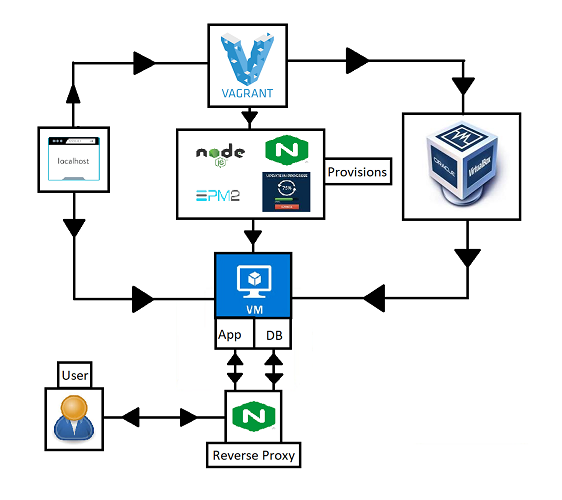
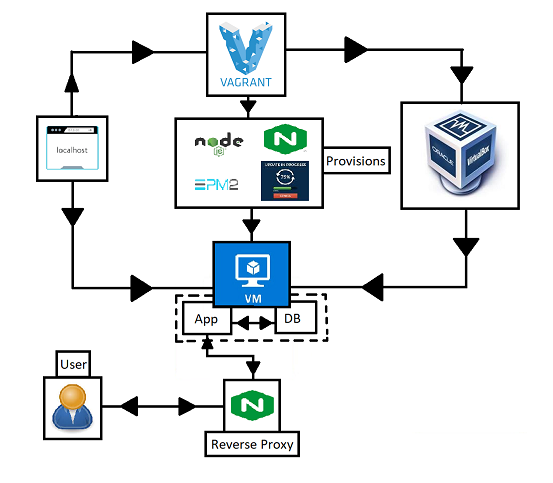
readme

Changed region(s): [[0.0615, 0.0, 0.953, 0.9627]]

diff --git a/README.md b/README.md
@@ -95,7 +95,11 @@ sudo npm install pm2
 
 ![](diagram.PNG)
 
-Configure Vagrantfile as such:
+We can see in the app.js we require a link to an external database. This is being called from the APP program so can be seen as monolithic architecture.
+
+![](dblink.PNG)
+
+In order to create a separate VM to create the database on configure the Vagrantfile as below:
 
 - Ensure Vagrant file is configured as such.
 ```
